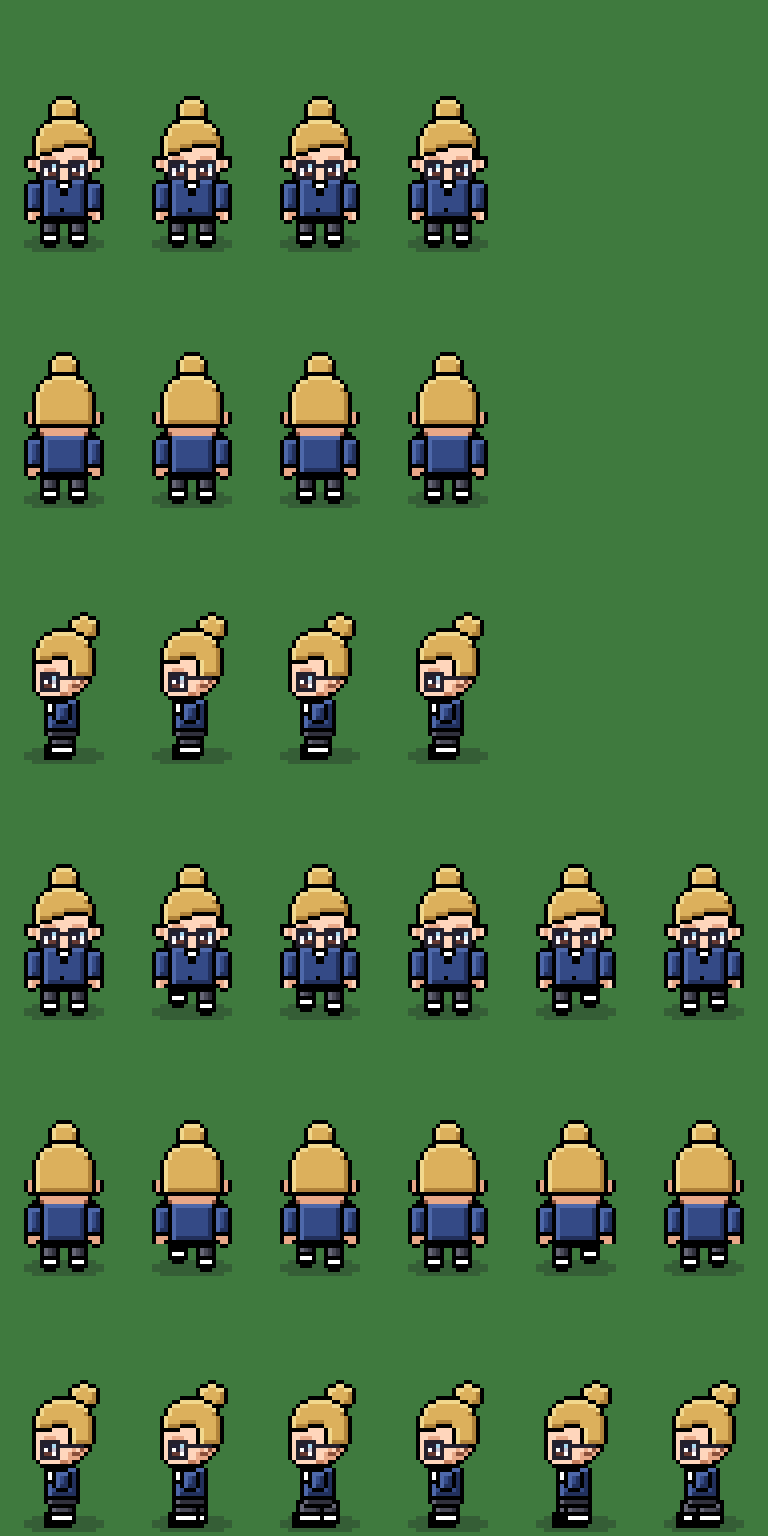
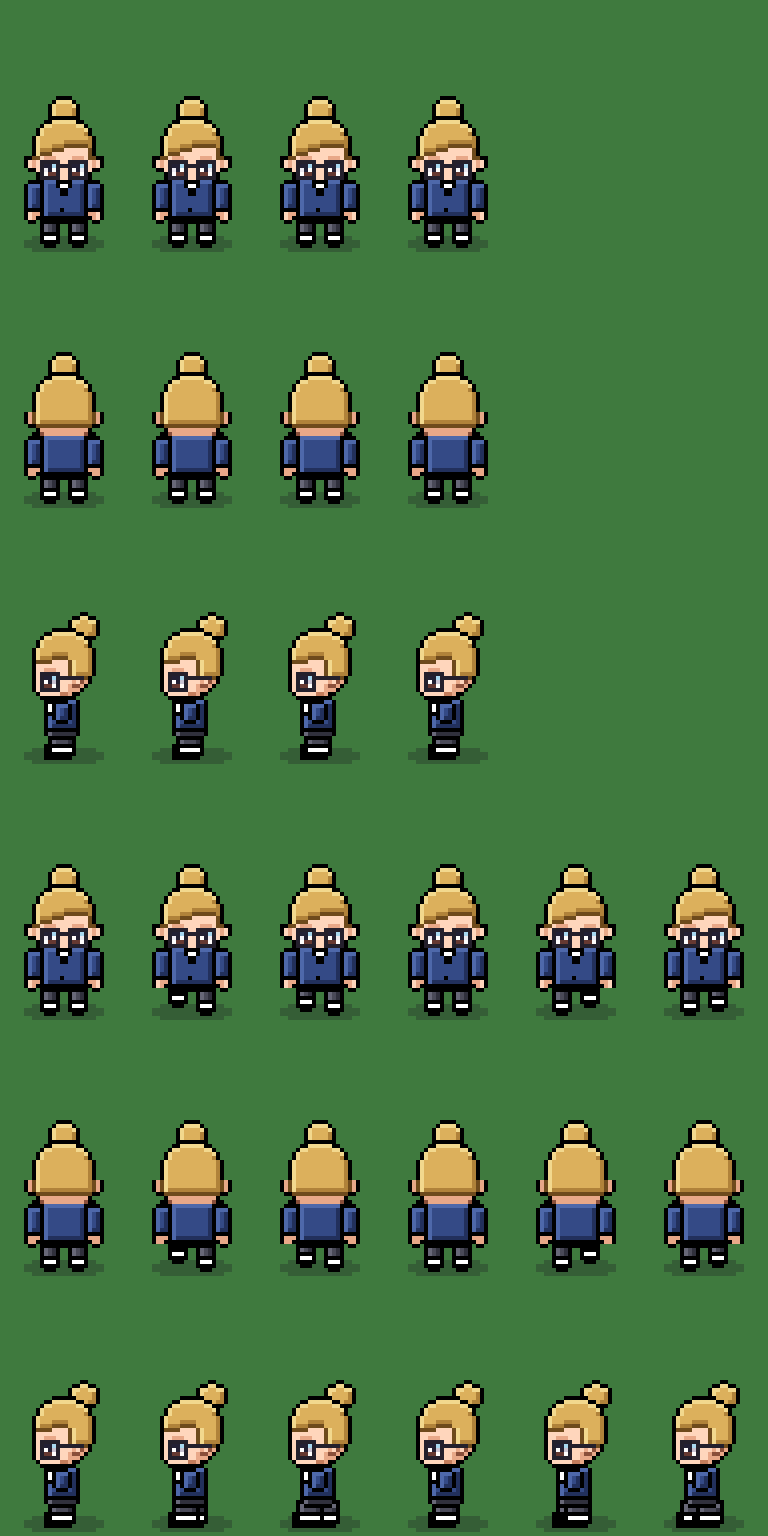
Characters: front view keeps the oval head silhouette
- hair/headwear edges that meet skin use the hair's dark shade instead of the
  black outline; black only on the outer silhouette (the forehead line made
  the hair read as a helmet on a round face)
- cap brim and beanie cuff stay inside the oval in the front view

Claude-Session: https://claude.ai/code/session_01AuTfW4RY5hqwpF1mFtvoZZ

diff --git a/scripts/gen-placeholders.ts b/scripts/gen-placeholders.ts
@@ -46,10 +46,15 @@ class Frame {
     return this.p.dir;
   }
   /** A shaded region with the black outline used by all character art. */
-  reg(ch: Ch | Ramp4): Region {
+  reg(ch: Ch | Ramp4, inside?: (x: number, y: number) => boolean): Region {
     const r = new Region(FRAME_W, FRAME_H, typeof ch === "string" ? KEY_RAMPS[ch] : ch);
-    this.ops.push(() => r.paint(this.c, 0, 0, { outlineColor: BLACK }));
+    this.ops.push(() => r.paint(this.c, 0, 0, { outlineColor: BLACK, inside }));
     return r;
+  }
+  /** Region for hair/headwear: black outline only on the head silhouette, soft edge where it meets skin. */
+  headReg(ch: Ch): Region {
+    const m = headMask(this.p);
+    return this.reg(ch, (x, y) => x >= 0 && y >= 0 && x < FRAME_W && y < FRAME_H && m[y * FRAME_W + x] === 1);
   }
   dot(x: number, y: number, hex: string, alpha = 255) {
     this.ops.push(() => this.c.set(x, y, hex, alpha));
@@ -242,16 +247,16 @@ const drawers: Record<string, Drawer> = {
   // ── headwear ──
   "headwear/head_cap_01.png": (f) => {
     const h = f.p.head;
-    fromHead(f.reg("primary"), f.p, (_x, y) => y <= h.y + 6);
+    fromHead(f.headReg("primary"), f.p, (_x, y) => y <= h.y + 6);
     const brim = f.reg("secondary");
-    if (f.dir === "down") brim.round(h.x - 1, h.y + 5, h.w + 2, 3, 1);
+    if (f.dir === "down") brim.round(h.x + 3, h.y + 6, h.w - 6, 2, 1); // brim stays inside the oval
     else if (f.dir === "left") brim.round(h.x - 4, h.y + 5, 9, 3, 1);
     else brim.rect(h.x + 6, h.y + 6, h.w - 12, 2);
   },
   "headwear/head_beanie_01.png": (f) => {
     const h = f.p.head;
-    fromHead(f.reg("primary"), f.p, (_x, y) => y <= h.y + 7);
-    f.reg("secondary").round(h.x - 1, h.y + 5, h.w + 2, 3, 1);
+    fromHead(f.headReg("primary"), f.p, (_x, y) => y <= h.y + 7);
+    fromHead(f.headReg("secondary"), f.p, (_x, y) => y >= h.y + 6 && y <= h.y + 7); // cuff follows the oval
   },
 
   // ── accessories ──
@@ -295,7 +300,7 @@ const drawers: Record<string, Drawer> = {
 function hairCap(f: Frame, sideLen: number) {
   const { p } = f;
   const h = p.head;
-  const r = f.reg("primary");
+  const r = f.headReg("primary");
   if (f.dir === "down") {
     fromHead(r, p, (x, y) => y <= h.y + 7 || (y <= h.y + 6 + sideLen && (x <= h.x + 3 || x >= h.x + h.w - 4)));
     r.rect(h.x + 4, h.y + 8, 6, 1).rect(h.x + 4, h.y + 9, 3, 1); // swept fringe

diff --git a/scripts/lib/pixel.ts b/scripts/lib/pixel.ts
@@ -108,7 +108,12 @@ export class Region {
     return this;
   }
   /** Auto-shade and paint into canvas at offset. `light` controls highlight side. */
-  paint(c: Canvas, ox = 0, oy = 0, opts: { outline?: boolean; flat?: boolean; outlineColor?: string } = {}): void {
+  paint(
+    c: Canvas,
+    ox = 0,
+    oy = 0,
+    opts: { outline?: boolean; flat?: boolean; outlineColor?: string; inside?: (x: number, y: number) => boolean } = {},
+  ): void {
     const outline = opts.outline ?? true;
     for (let y = 0; y < this.h; y++)
       for (let x = 0; x < this.w; x++) {
@@ -119,7 +124,15 @@ export class Region {
         else if (edge && outline) shade = 0;
         else if (!this.has(x - 2, y) || !this.has(x, y - 2)) shade = 3;
         else if (!this.has(x + 2, y) || !this.has(x, y + 2)) shade = 1;
-        c.set(ox + x, oy + y, shade === 0 && opts.outlineColor ? opts.outlineColor : this.ramp[shade]!);
+        // Edges that only touch the silhouette's interior (e.g. hair meeting skin) get the ramp's dark shade,
+        // not the black outline — black is reserved for the outer silhouette.
+        let color = this.ramp[shade]!;
+        if (shade === 0 && opts.outlineColor) {
+          const outside = [[x - 1, y], [x + 1, y], [x, y - 1], [x, y + 1]].filter(([nx, ny]) => !this.has(nx!, ny!));
+          const soft = !!opts.inside && outside.every(([nx, ny]) => opts.inside!(nx!, ny!));
+          color = soft ? this.ramp[0]! : opts.outlineColor;
+        }
+        c.set(ox + x, oy + y, color);
       }
   }
 }

diff --git a/CLAUDE.md b/CLAUDE.md
@@ -38,7 +38,7 @@ Full spec: `docs/spec.md`. Read it before changing anything in `shared/src/spec.
 - Items: `art/characters/items.json` (source) → copied to `client/public/assets/characters/items.json`. An item = slot + parts (layer + sheet) + channels (+ optional `unlock`).
 - Layer draw order per direction: `LAYER_ORDER` in `shared/src/avatar.ts` (facing up, back layers move in front).
 - The base body is split into `body` (torso/limbs) and `head` layers; `head` is drawn above top/outerwear so clothing never covers the chin.
-- The head is an oval (reference silhouette). Hair and headwear are cut from that silhouette (`fromHead`) and must not grow outside it — otherwise the head reads as round.
+- The head is an oval (reference silhouette). Hair and headwear are cut from that silhouette (`fromHead`) and must not grow outside it — otherwise the head reads as round. Use `f.headReg()` for them: black outline only on the outer silhouette, the ramp's dark shade where hair meets skin (no black line across the forehead).
 - Compositor bakes each avatar once into a single texture (`client/src/game/avatar/compositor.ts`), cached by appearance.
 
 ## Workflow
